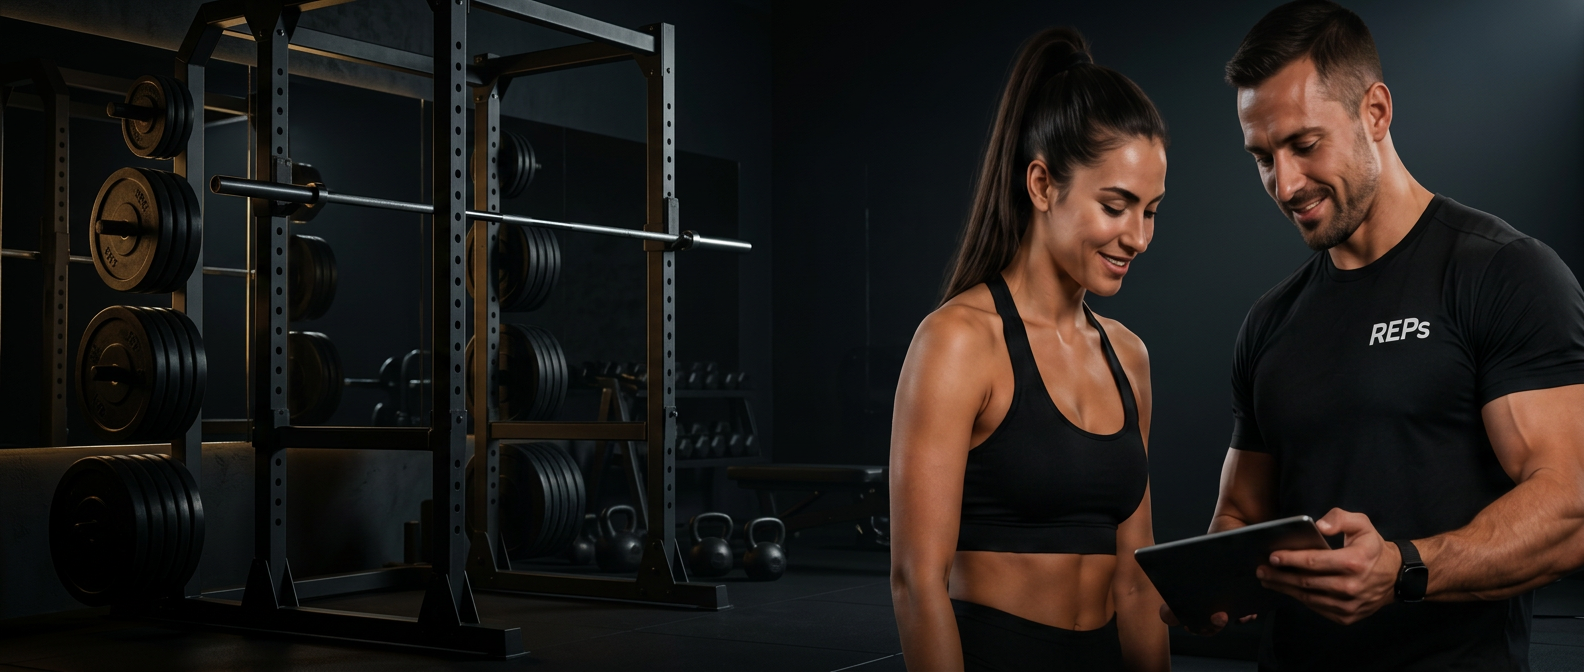
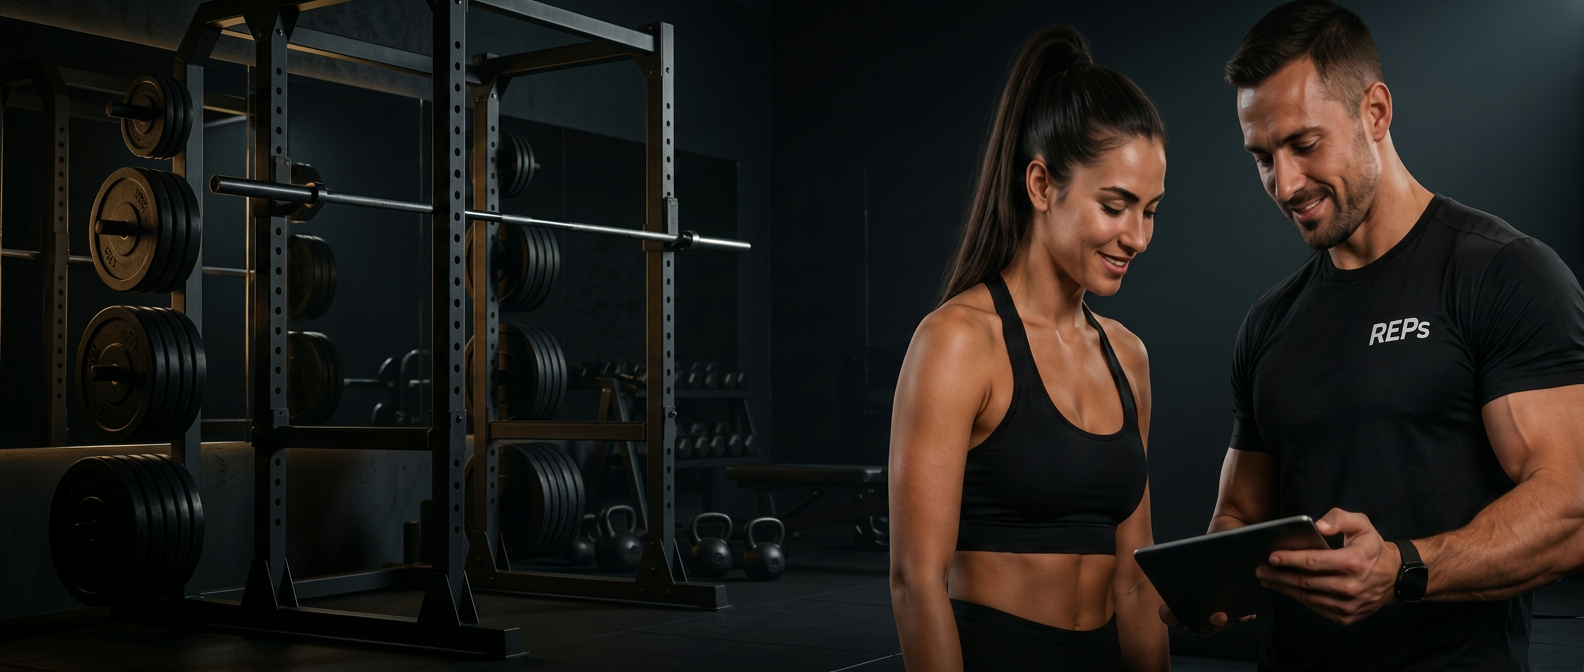
Changes

diff --git a/.lovable/plan.md b/.lovable/plan.md
@@ -1,24 +1,23 @@
 ## Problem
 
-Looked at the source `cta-band.jpg`: trainers occupy roughly **55%–100%** of the image width. My current desktop gradient still has ~55% ink at the 55% mark, which falls right on the female trainer — that's why she looks washed out / invisible.
+The "Why REPs?" card sits in the top-right ~40% of the hero, which is exactly where the trainers' heads/faces land in the generated image. So the card covers their faces.
 
-## Fix — pull gradient stops left so trainers are 100% clear
+In the mock-up the card sits over the trainers' **bodies** (mid-torso), with their faces visible **above** the card. The difference is vertical positioning in the source photo: the mock has lots of headroom above the people; my generated image has them starting at the very top of the frame.
 
-**Desktop (`lg`)**: copy column is `max-w-[520px]` inside `px-14` padding = ends around the 46% mark in a ~1240px container. Trainers start at 55%. So the gradient must be fully transparent by ~50%.
+## Fix — two coordinated changes
 
-New stops:
-- `#0B0D10` 0% → `rgba(11,13,16,0.95)` 25% → `rgba(11,13,16,0.55)` 38% → `rgba(11,13,16,0)` **50%**
+**1. Regenerate `src/assets/hero-trainer.jpg`** with the subjects pushed lower in frame and shifted a touch left:
+- Heads start around the 15–20% vertical mark (not flush to the top), so faces sit above where the card begins.
+- Subjects horizontally occupy roughly the 45–90% band (not 55–100%), giving the right edge breathing room so `object-cover` doesn't clip the male trainer's shoulder.
+- Same composition otherwise: female client + male trainer in REPs tee, looking at a tablet, dark gym on the left.
+- Aspect ratio stays 21:9.
 
-That keeps the copy panel dense ink, and gives the trainers a 50%→100% completely clear band.
+**2. Tighten `object-position` on the hero image** in `src/routes/index.tsx`:
+- Replace `object-center` with `lg:object-[60%_30%]` so on desktop the crop favours the upper-right where the faces are, keeping them visible above the card.
+- Mobile/tablet keep `object-center`.
 
-**Tablet (`md`–`lg`)**: same idea but vertical. Trainers occupy the top portion of the cropped image. Currently transparent from 0–30%, ramping in by 60%. That's fine — trainers stay clear up top. No change needed there, but I'll verify after the desktop fix.
-
-**Mobile**: image is on its own (no overlay), already clean.
-
-## Single-line code change
-
-`src/routes/index.tsx`, the `lg:block` gradient div — swap its `backgroundImage` for the new stops above. Tablet gradient and text contrast stay as-is.
+No overlay change needed — the desktop gradient already clears by 55%, which works for the new horizontal positioning.
 
 ## Out of scope
 
-No new asset, no token changes, no other sections.
+No card layout change, no token change, no other sections.
